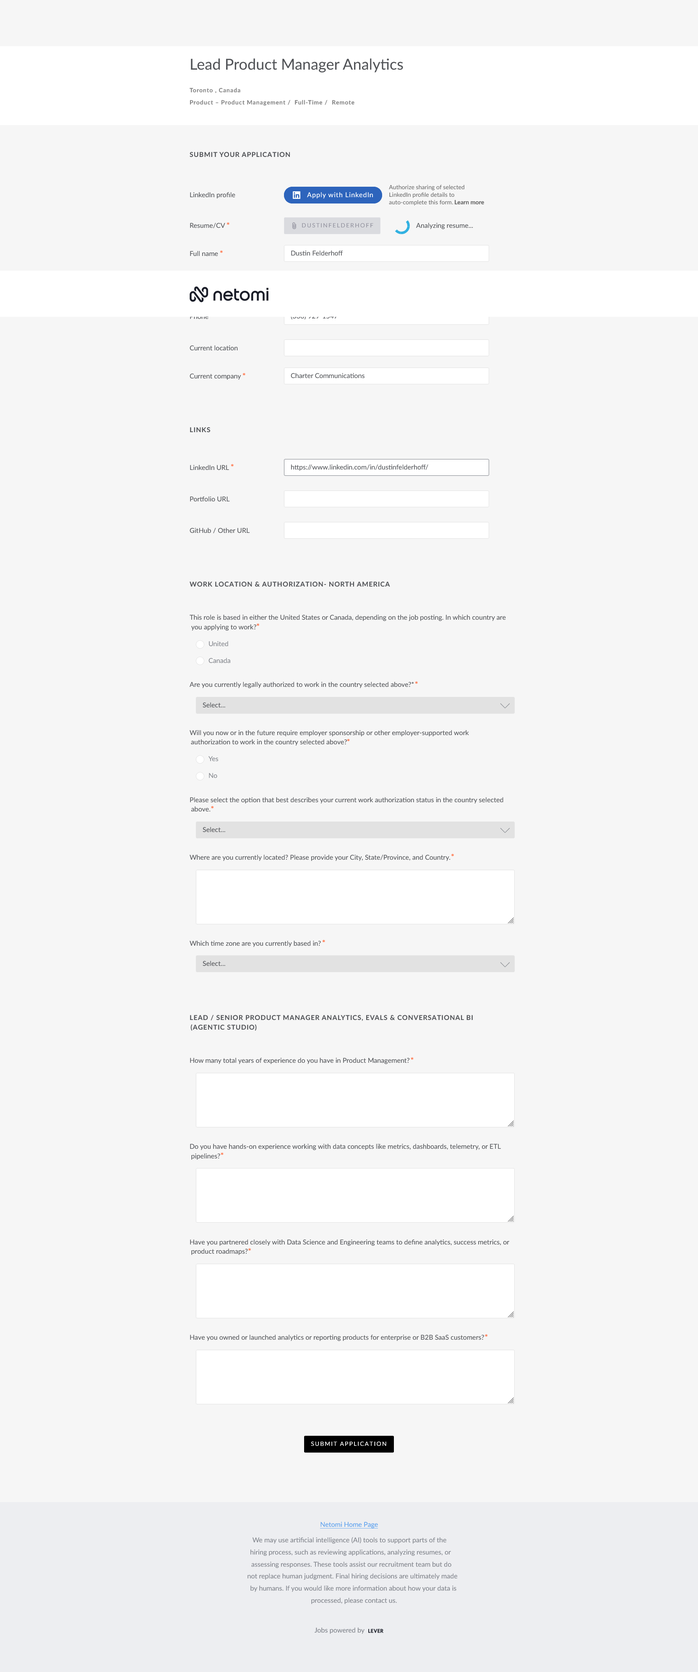
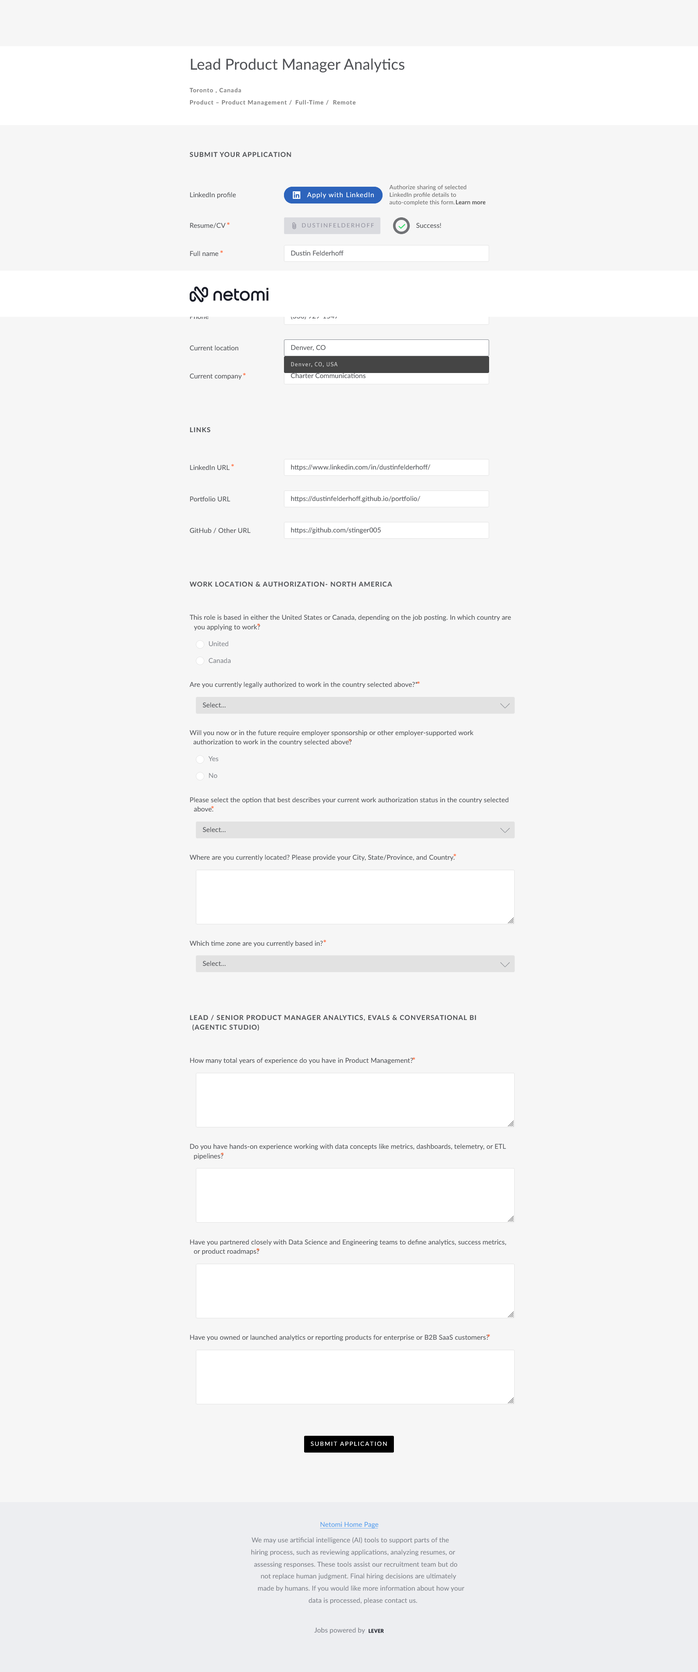
update dashboard

diff --git a/apply/job-dashboard.html b/apply/job-dashboard.html
@@ -68,11 +68,11 @@ a:hover{text-decoration:underline}
 <div id="dashboard" style="display:none">
 <header>
   <h1>Job-Application Monitor</h1>
-  <div class="sub">Auto-apply pipeline · generated 2026-09-01 11:30  · data: jobs.db + analytics.db + filled-form captures</div>
+  <div class="sub">Auto-apply pipeline · generated 2026-09-01 12:00  · data: jobs.db + analytics.db + filled-form captures</div>
 </header>
 <div class="wrap">
   <section class="card"><h2>Summary</h2><div class="grid"><div class="metric"><div class="label">Applied</div><div class="value">22</div></div><div class="metric"><div class="label">Interviews</div><div class="value">4</div></div><div class="metric"><div class="label">Interview requested</div><div class="value">0</div></div><div class="metric"><div class="label">Interview rate</div><div class="value">18.2%</div></div><div class="metric"><div class="label">Velocity</div><div class="value">2.8 apps/wk</div></div><div class="metric"><div class="label">Ready to apply</div><div class="value">231</div></div><div class="metric"><div class="label">Fillable (ATS)</div><div class="value">148</div></div><div class="metric"><div class="label">Has questions</div><div class="value">30</div></div></div></section>
-  <section class="card"><h2>Daily pipeline activity — last 14 days</h2><svg viewBox="0 0 920 300" role="img" aria-label="Daily pipeline activity, last 14 days" style="width:100%;height:auto;font:11px system-ui,sans-serif"><line x1="44" y1="258.0" x2="908" y2="258.0" stroke="#e2e8f0" stroke-width="1"/><text x="38" y="258.0" fill="#64748b" text-anchor="end" dominant-baseline="middle">0</text><line x1="44" y1="210.0" x2="908" y2="210.0" stroke="#e2e8f0" stroke-width="1"/><text x="38" y="210.0" fill="#64748b" text-anchor="end" dominant-baseline="middle">121</text><line x1="44" y1="162.0" x2="908" y2="162.0" stroke="#e2e8f0" stroke-width="1"/><text x="38" y="162.0" fill="#64748b" text-anchor="end" dominant-baseline="middle">243</text><line x1="44" y1="114.0" x2="908" y2="114.0" stroke="#e2e8f0" stroke-width="1"/><text x="38" y="114.0" fill="#64748b" text-anchor="end" dominant-baseline="middle">365</text><line x1="44" y1="66.0" x2="908" y2="66.0" stroke="#e2e8f0" stroke-width="1"/><text x="38" y="66.0" fill="#64748b" text-anchor="end" dominant-baseline="middle">487</text><line x1="44" y1="18.0" x2="908" y2="18.0" stroke="#e2e8f0" stroke-width="1"/><text x="38" y="18.0" fill="#64748b" text-anchor="end" dominant-baseline="middle">609</text><rect x="50.2" y="258.0" width="12.3" height="0.0" fill="#2563eb" rx="1.5"><title>2026-08-19: 0</title></rect><rect x="62.5" y="258.0" width="12.3" height="0.0" fill="#7c3aed" rx="1.5"><title>2026-08-19: 0</title></rect><rect x="74.9" y="258.0" width="12.3" height="0.0" fill="#059669" rx="1.5"><title>2026-08-19: 0</title></rect><rect x="87.2" y="258.0" width="12.3" height="0.0" fill="#d97706" rx="1.5"><title>2026-08-19: 0</title></rect><text x="81.0" y="280" fill="#475569" text-anchor="middle">08-19</text><rect x="111.9" y="258.0" width="12.3" height="0.0" fill="#2563eb" rx="1.5"><title>2026-08-20: 0</title></rect><rect x="124.2" y="258.0" width="12.3" height="0.0" fill="#7c3aed" rx="1.5"><title>2026-08-20: 0</title></rect><rect x="136.6" y="258.0" width="12.3" height="0.0" fill="#059669" rx="1.5"><title>2026-08-20: 0</title></rect><rect x="148.9" y="258.0" width="12.3" height="0.0" fill="#d97706" rx="1.5"><title>2026-08-20: 0</title></rect><rect x="173.6" y="258.0" width="12.3" height="0.0" fill="#2563eb" rx="1.5"><title>2026-08-21: 0</title></rect><rect x="185.9" y="258.0" width="12.3" height="0.0" fill="#7c3aed" rx="1.5"><title>2026-08-21: 0</title></rect><rect x="198.3" y="258.0" width="12.3" height="0.0" fill="#059669" rx="1.5"><title>2026-08-21: 0</title></rect><rect x="210.6" y="258.0" width="12.3" height="0.0" fill="#d97706" rx="1.5"><title>2026-08-21: 0</title></rect><text x="204.5" y="280" fill="#475569" text-anchor="middle">08-21</text><rect x="235.3" y="258.0" width="12.3" height="0.0" fill="#2563eb" rx="1.5"><title>2026-08-22: 0</title></rect><rect x="247.7" y="258.0" width="12.3" height="0.0" fill="#7c3aed" rx="1.5"><title>2026-08-22: 0</title></rect><rect x="260.0" y="258.0" width="12.3" height="0.0" fill="#059669" rx="1.5"><title>2026-08-22: 0</title></rect><rect x="272.3" y="258.0" width="12.3" height="0.0" fill="#d97706" rx="1.5"><title>2026-08-22: 0</title></rect><rect x="297.0" y="258.0" width="12.3" height="0.0" fill="#2563eb" rx="1.5"><title>2026-08-23: 0</title></rect><rect x="309.4" y="258.0" width="12.3" height="0.0" fill="#7c3aed" rx="1.5"><title>2026-08-23: 0</title></rect><rect x="321.7" y="258.0" width="12.3" height="0.0" fill="#059669" rx="1.5"><title>2026-08-23: 0</title></rect><rect x="334.1" y="258.0" width="12.3" height="0.0" fill="#d97706" rx="1.5"><title>2026-08-23: 0</title></rect><text x="327.9" y="280" fill="#475569" text-anchor="middle">08-23</text><rect x="358.7" y="258.0" width="12.3" height="0.0" fill="#2563eb" rx="1.5"><title>2026-08-24: 0</title></rect><rect x="371.1" y="258.0" width="12.3" height="0.0" fill="#7c3aed" rx="1.5"><title>2026-08-24: 0</title></rect><rect x="383.4" y="258.0" width="12.3" height="0.0" fill="#059669" rx="1.5"><title>2026-08-24: 0</title></rect><rect x="395.8" y="258.0" width="12.3" height="0.0" fill="#d97706" rx="1.5"><title>2026-08-24: 0</title></rect><rect x="420.5" y="258.0" width="12.3" height="0.0" fill="#2563eb" rx="1.5"><title>2026-08-25: 0</title></rect><rect x="432.8" y="258.0" width="12.3" height="0.0" fill="#7c3aed" rx="1.5"><title>2026-08-25: 0</title></rect><rect x="445.1" y="258.0" width="12.3" height="0.0" fill="#059669" rx="1.5"><title>2026-08-25: 0</title></rect><rect x="457.5" y="258.0" width="12.3" height="0.0" fill="#d97706" rx="1.5"><title>2026-08-25: 0</title></rect><text x="451.3" y="280" fill="#475569" text-anchor="middle">08-25</text><rect x="482.2" y="258.0" width="12.3" height="0.0" fill="#2563eb" rx="1.5"><title>2026-08-26: 0</title></rect><rect x="494.5" y="258.0" width="12.3" height="0.0" fill="#7c3aed" rx="1.5"><title>2026-08-26: 0</title></rect><rect x="506.9" y="258.0" width="12.3" height="0.0" fill="#059669" rx="1.5"><title>2026-08-26: 0</title></rect><rect x="519.2" y="258.0" width="12.3" height="0.0" fill="#d97706" rx="1.5"><title>2026-08-26: 0</title></rect><rect x="543.9" y="169.7" width="12.3" height="88.3" fill="#2563eb" rx="1.5"><title>2026-08-27: 224</title></rect><rect x="556.2" y="256.0" width="12.3" height="2.0" fill="#7c3aed" rx="1.5"><title>2026-08-27: 5</title></rect><rect x="568.6" y="258.0" width="12.3" height="0.0" fill="#059669" rx="1.5"><title>2026-08-27: 0</title></rect><rect x="580.9" y="258.0" width="12.3" height="0.0" fill="#d97706" rx="1.5"><title>2026-08-27: 0</title></rect><text x="574.7" y="280" fill="#475569" text-anchor="middle">08-27</text><rect x="605.6" y="18.0" width="12.3" height="240.0" fill="#2563eb" rx="1.5"><title>2026-08-28: 609</title></rect><rect x="617.9" y="253.3" width="12.3" height="4.7" fill="#7c3aed" rx="1.5"><title>2026-08-28: 12</title></rect><rect x="630.3" y="254.1" width="12.3" height="3.9" fill="#059669" rx="1.5"><title>2026-08-28: 10</title></rect><rect x="642.6" y="258.0" width="12.3" height="0.0" fill="#d97706" rx="1.5"><title>2026-08-28: 0</title></rect><rect x="667.3" y="258.0" width="12.3" height="0.0" fill="#2563eb" rx="1.5"><title>2026-08-29: 0</title></rect><rect x="679.7" y="256.0" width="12.3" height="2.0" fill="#7c3aed" rx="1.5"><title>2026-08-29: 5</title></rect><rect x="692.0" y="256.0" width="12.3" height="2.0" fill="#059669" rx="1.5"><title>2026-08-29: 5</title></rect><rect x="704.3" y="258.0" width="12.3" height="0.0" fill="#d97706" rx="1.5"><title>2026-08-29: 0</title></rect><text x="698.2" y="280" fill="#475569" text-anchor="middle">08-29</text><rect x="729.0" y="258.0" width="12.3" height="0.0" fill="#2563eb" rx="1.5"><title>2026-08-30: 0</title></rect><rect x="741.4" y="250.5" width="12.3" height="7.5" fill="#7c3aed" rx="1.5"><title>2026-08-30: 19</title></rect><rect x="753.7" y="251.7" width="12.3" height="6.3" fill="#059669" rx="1.5"><title>2026-08-30: 16</title></rect><rect x="766.1" y="258.0" width="12.3" height="0.0" fill="#d97706" rx="1.5"><title>2026-08-30: 0</title></rect><rect x="790.7" y="227.7" width="12.3" height="30.3" fill="#2563eb" rx="1.5"><title>2026-08-31: 77</title></rect><rect x="803.1" y="221.3" width="12.3" height="36.7" fill="#7c3aed" rx="1.5"><title>2026-08-31: 93</title></rect><rect x="815.4" y="242.6" width="12.3" height="15.4" fill="#059669" rx="1.5"><title>2026-08-31: 39</title></rect><rect x="827.8" y="258.0" width="12.3" height="0.0" fill="#d97706" rx="1.5"><title>2026-08-31: 0</title></rect><text x="821.6" y="280" fill="#475569" text-anchor="middle">08-31</text><rect x="852.5" y="256.4" width="12.3" height="1.6" fill="#2563eb" rx="1.5"><title>2026-09-01: 4</title></rect><rect x="864.8" y="243.8" width="12.3" height="14.2" fill="#7c3aed" rx="1.5"><title>2026-09-01: 36</title></rect><rect x="877.1" y="248.9" width="12.3" height="9.1" fill="#059669" rx="1.5"><title>2026-09-01: 23</title></rect><rect x="889.5" y="258.0" width="12.3" height="0.0" fill="#d97706" rx="1.5"><title>2026-09-01: 0</title></rect><text x="883.3" y="280" fill="#475569" text-anchor="middle">09-01</text><rect x="44" y="8" width="10" height="10" fill="#2563eb" rx="2"/><text x="58" y="16" fill="#0f172a">Found</text><rect x="109" y="8" width="10" height="10" fill="#7c3aed" rx="2"/><text x="123" y="16" fill="#0f172a">Attempted</text><rect x="202" y="8" width="10" height="10" fill="#059669" rx="2"/><text x="216" y="16" fill="#0f172a">Filled</text><rect x="274" y="8" width="10" height="10" fill="#d97706" rx="2"/><text x="288" y="16" fill="#0f172a">Submitted</text></svg></section>
+  <section class="card"><h2>Daily pipeline activity — last 14 days</h2><svg viewBox="0 0 920 300" role="img" aria-label="Daily pipeline activity, last 14 days" style="width:100%;height:auto;font:11px system-ui,sans-serif"><line x1="44" y1="258.0" x2="908" y2="258.0" stroke="#e2e8f0" stroke-width="1"/><text x="38" y="258.0" fill="#64748b" text-anchor="end" dominant-baseline="middle">0</text><line x1="44" y1="210.0" x2="908" y2="210.0" stroke="#e2e8f0" stroke-width="1"/><text x="38" y="210.0" fill="#64748b" text-anchor="end" dominant-baseline="middle">121</text><line x1="44" y1="162.0" x2="908" y2="162.0" stroke="#e2e8f0" stroke-width="1"/><text x="38" y="162.0" fill="#64748b" text-anchor="end" dominant-baseline="middle">243</text><line x1="44" y1="114.0" x2="908" y2="114.0" stroke="#e2e8f0" stroke-width="1"/><text x="38" y="114.0" fill="#64748b" text-anchor="end" dominant-baseline="middle">365</text><line x1="44" y1="66.0" x2="908" y2="66.0" stroke="#e2e8f0" stroke-width="1"/><text x="38" y="66.0" fill="#64748b" text-anchor="end" dominant-baseline="middle">487</text><line x1="44" y1="18.0" x2="908" y2="18.0" stroke="#e2e8f0" stroke-width="1"/><text x="38" y="18.0" fill="#64748b" text-anchor="end" dominant-baseline="middle">609</text><rect x="50.2" y="258.0" width="12.3" height="0.0" fill="#2563eb" rx="1.5"><title>2026-08-19: 0</title></rect><rect x="62.5" y="258.0" width="12.3" height="0.0" fill="#7c3aed" rx="1.5"><title>2026-08-19: 0</title></rect><rect x="74.9" y="258.0" width="12.3" height="0.0" fill="#059669" rx="1.5"><title>2026-08-19: 0</title></rect><rect x="87.2" y="258.0" width="12.3" height="0.0" fill="#d97706" rx="1.5"><title>2026-08-19: 0</title></rect><text x="81.0" y="280" fill="#475569" text-anchor="middle">08-19</text><rect x="111.9" y="258.0" width="12.3" height="0.0" fill="#2563eb" rx="1.5"><title>2026-08-20: 0</title></rect><rect x="124.2" y="258.0" width="12.3" height="0.0" fill="#7c3aed" rx="1.5"><title>2026-08-20: 0</title></rect><rect x="136.6" y="258.0" width="12.3" height="0.0" fill="#059669" rx="1.5"><title>2026-08-20: 0</title></rect><rect x="148.9" y="258.0" width="12.3" height="0.0" fill="#d97706" rx="1.5"><title>2026-08-20: 0</title></rect><rect x="173.6" y="258.0" width="12.3" height="0.0" fill="#2563eb" rx="1.5"><title>2026-08-21: 0</title></rect><rect x="185.9" y="258.0" width="12.3" height="0.0" fill="#7c3aed" rx="1.5"><title>2026-08-21: 0</title></rect><rect x="198.3" y="258.0" width="12.3" height="0.0" fill="#059669" rx="1.5"><title>2026-08-21: 0</title></rect><rect x="210.6" y="258.0" width="12.3" height="0.0" fill="#d97706" rx="1.5"><title>2026-08-21: 0</title></rect><text x="204.5" y="280" fill="#475569" text-anchor="middle">08-21</text><rect x="235.3" y="258.0" width="12.3" height="0.0" fill="#2563eb" rx="1.5"><title>2026-08-22: 0</title></rect><rect x="247.7" y="258.0" width="12.3" height="0.0" fill="#7c3aed" rx="1.5"><title>2026-08-22: 0</title></rect><rect x="260.0" y="258.0" width="12.3" height="0.0" fill="#059669" rx="1.5"><title>2026-08-22: 0</title></rect><rect x="272.3" y="258.0" width="12.3" height="0.0" fill="#d97706" rx="1.5"><title>2026-08-22: 0</title></rect><rect x="297.0" y="258.0" width="12.3" height="0.0" fill="#2563eb" rx="1.5"><title>2026-08-23: 0</title></rect><rect x="309.4" y="258.0" width="12.3" height="0.0" fill="#7c3aed" rx="1.5"><title>2026-08-23: 0</title></rect><rect x="321.7" y="258.0" width="12.3" height="0.0" fill="#059669" rx="1.5"><title>2026-08-23: 0</title></rect><rect x="334.1" y="258.0" width="12.3" height="0.0" fill="#d97706" rx="1.5"><title>2026-08-23: 0</title></rect><text x="327.9" y="280" fill="#475569" text-anchor="middle">08-23</text><rect x="358.7" y="258.0" width="12.3" height="0.0" fill="#2563eb" rx="1.5"><title>2026-08-24: 0</title></rect><rect x="371.1" y="258.0" width="12.3" height="0.0" fill="#7c3aed" rx="1.5"><title>2026-08-24: 0</title></rect><rect x="383.4" y="258.0" width="12.3" height="0.0" fill="#059669" rx="1.5"><title>2026-08-24: 0</title></rect><rect x="395.8" y="258.0" width="12.3" height="0.0" fill="#d97706" rx="1.5"><title>2026-08-24: 0</title></rect><rect x="420.5" y="258.0" width="12.3" height="0.0" fill="#2563eb" rx="1.5"><title>2026-08-25: 0</title></rect><rect x="432.8" y="258.0" width="12.3" height="0.0" fill="#7c3aed" rx="1.5"><title>2026-08-25: 0</title></rect><rect x="445.1" y="258.0" width="12.3" height="0.0" fill="#059669" rx="1.5"><title>2026-08-25: 0</title></rect><rect x="457.5" y="258.0" width="12.3" height="0.0" fill="#d97706" rx="1.5"><title>2026-08-25: 0</title></rect><text x="451.3" y="280" fill="#475569" text-anchor="middle">08-25</text><rect x="482.2" y="258.0" width="12.3" height="0.0" fill="#2563eb" rx="1.5"><title>2026-08-26: 0</title></rect><rect x="494.5" y="258.0" width="12.3" height="0.0" fill="#7c3aed" rx="1.5"><title>2026-08-26: 0</title></rect><rect x="506.9" y="258.0" width="12.3" height="0.0" fill="#059669" rx="1.5"><title>2026-08-26: 0</title></rect><rect x="519.2" y="258.0" width="12.3" height="0.0" fill="#d97706" rx="1.5"><title>2026-08-26: 0</title></rect><rect x="543.9" y="169.7" width="12.3" height="88.3" fill="#2563eb" rx="1.5"><title>2026-08-27: 224</title></rect><rect x="556.2" y="256.0" width="12.3" height="2.0" fill="#7c3aed" rx="1.5"><title>2026-08-27: 5</title></rect><rect x="568.6" y="258.0" width="12.3" height="0.0" fill="#059669" rx="1.5"><title>2026-08-27: 0</title></rect><rect x="580.9" y="258.0" width="12.3" height="0.0" fill="#d97706" rx="1.5"><title>2026-08-27: 0</title></rect><text x="574.7" y="280" fill="#475569" text-anchor="middle">08-27</text><rect x="605.6" y="18.0" width="12.3" height="240.0" fill="#2563eb" rx="1.5"><title>2026-08-28: 609</title></rect><rect x="617.9" y="253.3" width="12.3" height="4.7" fill="#7c3aed" rx="1.5"><title>2026-08-28: 12</title></rect><rect x="630.3" y="254.1" width="12.3" height="3.9" fill="#059669" rx="1.5"><title>2026-08-28: 10</title></rect><rect x="642.6" y="258.0" width="12.3" height="0.0" fill="#d97706" rx="1.5"><title>2026-08-28: 0</title></rect><rect x="667.3" y="258.0" width="12.3" height="0.0" fill="#2563eb" rx="1.5"><title>2026-08-29: 0</title></rect><rect x="679.7" y="256.0" width="12.3" height="2.0" fill="#7c3aed" rx="1.5"><title>2026-08-29: 5</title></rect><rect x="692.0" y="256.0" width="12.3" height="2.0" fill="#059669" rx="1.5"><title>2026-08-29: 5</title></rect><rect x="704.3" y="258.0" width="12.3" height="0.0" fill="#d97706" rx="1.5"><title>2026-08-29: 0</title></rect><text x="698.2" y="280" fill="#475569" text-anchor="middle">08-29</text><rect x="729.0" y="258.0" width="12.3" height="0.0" fill="#2563eb" rx="1.5"><title>2026-08-30: 0</title></rect><rect x="741.4" y="250.5" width="12.3" height="7.5" fill="#7c3aed" rx="1.5"><title>2026-08-30: 19</title></rect><rect x="753.7" y="251.7" width="12.3" height="6.3" fill="#059669" rx="1.5"><title>2026-08-30: 16</title></rect><rect x="766.1" y="258.0" width="12.3" height="0.0" fill="#d97706" rx="1.5"><title>2026-08-30: 0</title></rect><rect x="790.7" y="227.7" width="12.3" height="30.3" fill="#2563eb" rx="1.5"><title>2026-08-31: 77</title></rect><rect x="803.1" y="221.3" width="12.3" height="36.7" fill="#7c3aed" rx="1.5"><title>2026-08-31: 93</title></rect><rect x="815.4" y="242.6" width="12.3" height="15.4" fill="#059669" rx="1.5"><title>2026-08-31: 39</title></rect><rect x="827.8" y="258.0" width="12.3" height="0.0" fill="#d97706" rx="1.5"><title>2026-08-31: 0</title></rect><text x="821.6" y="280" fill="#475569" text-anchor="middle">08-31</text><rect x="852.5" y="256.4" width="12.3" height="1.6" fill="#2563eb" rx="1.5"><title>2026-09-01: 4</title></rect><rect x="864.8" y="243.0" width="12.3" height="15.0" fill="#7c3aed" rx="1.5"><title>2026-09-01: 38</title></rect><rect x="877.1" y="248.1" width="12.3" height="9.9" fill="#059669" rx="1.5"><title>2026-09-01: 25</title></rect><rect x="889.5" y="258.0" width="12.3" height="0.0" fill="#d97706" rx="1.5"><title>2026-09-01: 0</title></rect><text x="883.3" y="280" fill="#475569" text-anchor="middle">09-01</text><rect x="44" y="8" width="10" height="10" fill="#2563eb" rx="2"/><text x="58" y="16" fill="#0f172a">Found</text><rect x="109" y="8" width="10" height="10" fill="#7c3aed" rx="2"/><text x="123" y="16" fill="#0f172a">Attempted</text><rect x="202" y="8" width="10" height="10" fill="#059669" rx="2"/><text x="216" y="16" fill="#0f172a">Filled</text><rect x="274" y="8" width="10" height="10" fill="#d97706" rx="2"/><text x="288" y="16" fill="#0f172a">Submitted</text></svg></section>
   <section class="card">
     <h2>Job postings</h2>
     <p class='note'>Discovery visibility (0-100) = source weight (0-70) + recency (0-20) + liveness (0-10). Source weight reflects how proactively/directly findable the job was via its discovery route (a company's own career-site/ATS scan = high; shared/manual intake = lower because it relies on someone else surfacing it). Jobs whose original discovery route is unknown (e.g. recovered from a rebuild) show '—'. Recruiter findability (0-100) = reviewability state(0-40) + fit(0-25) + completion(0-25) + proof(0-10); jobs never attempted show '—'. 0-100) = required-weighted filled/visible fields from each capture's audit (required fields weigh ~2x optional; hidden/captcha fields excluded). Accuracy-to-resume (0-100) = how well filled identity fields match Dustin's resume + answers ground truth; only fields with a known true value are scored (essay/answer fields never penalized); empty on a known field is a partial. AI-detection (0-100) = how human vs AI the free-form written answers read (higher = more human); a deterministic heuristic flags em/en dashes, banned AI words, missing contractions, uniform sentence rhythm, hedging, and '-ing' padding; requires free-form prose, else honest N/A. Every score is honest N/A when the underlying data does not exist. Fit = jobs.fit_score.</p>
@@ -85,7 +85,7 @@ a:hover{text-decoration:underline}
     </tr></thead>
     <tbody><tr><td class='company'>Contentsquare</td><td>Contentsquare - Senior Product Manager, User &amp; Lifecycle Analytics</td><td>2026-08-28</td><td class='src'>Tavily search</td><td class='num'>75</td><td><span class='badge badge-gray'>questions_extracted</span></td><td><span class='badge badge-gray'>No</span></td><td class='num'>78</td><td class='num'>80</td><td>2026-08-28</td><td class='proof'><a class="proof-online" href="proof/job2032.png" target="_blank" rel="noopener">View proof (online)</a><br><small class="muted">PNG committed online; PDF + audit local</small><br><small class="muted">captured 2026-09-01 02:38</small></td><td class='num'><span style="color:#d97706;font-weight:600" title="13/19 fields filled (9.0 required-weighted pts / 13.0 possible)">69</span></td><td class='num'><span style="color:#059669;font-weight:600" title="8 identity field(s) assessed, 7 matched, 7.5 pts/8.0 · email:match; phone:match; location:match; linkedin:match; portfolio:empty(0.5); portfolio:match; portfolio:match; location:match">94</span></td><td class='num'><span style="color:#059669;font-weight:600" title="109 chars of free-form answer text assessed">100</span></td><td class='num'>80</td></tr>
 <tr><td class='company'>Twilio</td><td>Staff Product Manager</td><td>2026-08-27</td><td class='src'>ATS 2h scan · job_source_ats_2h</td><td class='num'>100</td><td><span class='badge badge-gray'>questions_extracted</span></td><td><span class='badge badge-gray'>No</span></td><td class='num'>63</td><td class='num'>92</td><td>2026-08-26</td><td class='proof'><span class="na">—</span></td><td class='num'><span class="na" title="no data">N/A</span></td><td class='num'><span class="na" title="no data">N/A</span></td><td class='num'><span class="na" title="no data">N/A</span></td><td class='num'>92</td></tr>
-<tr><td class='company'>Maven Clinic</td><td>VP of Product, Healthcare</td><td>2026-08-27</td><td class='src'>Daily scan · job_source_daily_scan</td><td class='num'>95</td><td><span class='badge badge-gray'>questions_extracted</span></td><td><span class='badge badge-gray'>No</span></td><td class='num'>79</td><td class='num'>74</td><td>2026-06-18</td><td class='proof'><a class="proof-online" href="proof/job1989.png" target="_blank" rel="noopener">View proof (online)</a><br><small class="muted">PNG committed online; PDF + audit local</small><br><small class="muted">captured 2026-09-01 08:49</small></td><td class='num'><span style="color:#d97706;font-weight:600" title="9/14 fields filled (9.0 required-weighted pts / 14.0 possible)">64</span></td><td class='num'><span style="color:#059669;font-weight:600" title="8 identity field(s) assessed, 8 matched, 8.0 pts/8.0 · first_name:match; last_name:match; email:match; phone:match; location:match; location:match; linkedin:match; location:match">100</span></td><td class='num'><span class="na" title="no free-form written answer captured/assessed">N/A</span></td><td class='num'>74</td></tr>
+<tr><td class='company'>Maven Clinic</td><td>VP of Product, Healthcare</td><td>2026-08-27</td><td class='src'>Daily scan · job_source_daily_scan</td><td class='num'>95</td><td><span class='badge badge-gray'>questions_extracted</span></td><td><span class='badge badge-gray'>No</span></td><td class='num'>79</td><td class='num'>74</td><td>2026-06-18</td><td class='proof'><a class="proof-online" href="proof/job1989.png" target="_blank" rel="noopener">View proof (online)</a><br><small class="muted">PNG committed online; PDF + audit local</small><br><small class="muted">captured 2026-09-01 11:39</small></td><td class='num'><span style="color:#d97706;font-weight:600" title="9/14 fields filled (9.0 required-weighted pts / 14.0 possible)">64</span></td><td class='num'><span style="color:#059669;font-weight:600" title="8 identity field(s) assessed, 8 matched, 8.0 pts/8.0 · first_name:match; last_name:match; email:match; phone:match; location:match; location:match; linkedin:match; location:match">100</span></td><td class='num'><span class="na" title="no free-form written answer captured/assessed">N/A</span></td><td class='num'>74</td></tr>
 <tr><td class='company'>Maven Clinic</td><td>Senior Staff Product Manager, Member &amp; AI Experience</td><td>2026-08-27</td><td class='src'>Daily scan · job_source_daily_scan</td><td class='num'>95</td><td><span class='badge badge-gray'>questions_extracted</span></td><td><span class='badge badge-gray'>No</span></td><td class='num'>78</td><td class='num'>73</td><td>2026-06-18</td><td class='proof'><a class="proof-online" href="proof/job1982.png" target="_blank" rel="noopener">View proof (online)</a><br><small class="muted">PNG committed online; PDF + audit local</small><br><small class="muted">captured 2026-09-01 00:37</small></td><td class='num'><span style="color:#d97706;font-weight:600" title="9/14 fields filled (9.0 required-weighted pts / 14.0 possible)">64</span></td><td class='num'><span style="color:#059669;font-weight:600" title="8 identity field(s) assessed, 8 matched, 8.0 pts/8.0 · first_name:match; last_name:match; email:match; phone:match; location:match; location:match; linkedin:match; location:match">100</span></td><td class='num'><span class="na" title="no free-form written answer captured/assessed">N/A</span></td><td class='num'>73</td></tr>
 <tr><td class='company'>Maven Clinic</td><td>Senior Staff Product Manager, Fertility &amp; Family Building</td><td>2026-08-27</td><td class='src'>Daily scan · job_source_daily_scan</td><td class='num'>95</td><td><span class='badge badge-gray'>questions_extracted</span></td><td><span class='badge badge-gray'>No</span></td><td class='num'>56</td><td class='num'>73</td><td>2026-06-18</td><td class='proof'><a class="proof-online" href="proof/job1981.png" target="_blank" rel="noopener">View proof (online)</a><br><small class="muted">PNG committed online; PDF + audit local</small><br><small class="muted">captured 2026-08-31 03:04</small></td><td class='num'><span style="color:#dc2626;font-weight:600" title="5/14 fields filled (5.0 required-weighted pts / 14.0 possible)">36</span></td><td class='num'><span style="color:#d97706;font-weight:600" title="7 identity field(s) assessed, 5 matched, 6.0 pts/7.0 · first_name:match; last_name:match; email:match; phone:match; location:match; linkedin:empty(0.5); location:empty(0.5)">86</span></td><td class='num'><span class="na" title="no free-form written answer captured/assessed">N/A</span></td><td class='num'>73</td></tr>
 <tr><td class='company'>Maven Clinic</td><td>Group Product Manager, Client Services</td><td>2026-08-27</td><td class='src'>Daily scan · job_source_daily_scan</td><td class='num'>95</td><td><span class='badge badge-gray'>questions_extracted</span></td><td><span class='badge badge-gray'>No</span></td><td class='num'>58</td><td class='num'>71</td><td>2026-06-18</td><td class='proof'><span class="na">—</span></td><td class='num'><span class="na" title="no data">N/A</span></td><td class='num'><span class="na" title="no data">N/A</span></td><td class='num'><span class="na" title="no data">N/A</span></td><td class='num'>71</td></tr>
@@ -123,7 +123,7 @@ a:hover{text-decoration:underline}
 <tr><td class='company'>Future</td><td>Job Application for Staff Product Manager at Future</td><td>2026-08-27</td><td class='src'>Tavily search</td><td class='num'>65</td><td><span class='badge badge-red'>closed</span></td><td><span class='badge badge-gray'>No</span></td><td class='num'>40</td><td class='num'>80</td><td>2026-08-27</td><td class='proof'><span class="na">—</span></td><td class='num'><span class="na" title="no data">N/A</span></td><td class='num'><span class="na" title="no data">N/A</span></td><td class='num'><span class="na" title="no data">N/A</span></td><td class='num'>80</td></tr>
 <tr><td class='company'>Extend</td><td>Job Application for Product Manager II at Extend</td><td>2026-08-27</td><td class='src'>Tavily search</td><td class='num'>75</td><td><span class='badge badge-gray'>questions_extracted</span></td><td><span class='badge badge-gray'>No</span></td><td class='num'>60</td><td class='num'>80</td><td>2026-08-27</td><td class='proof'><span class="na">—</span></td><td class='num'><span class="na" title="no data">N/A</span></td><td class='num'><span class="na" title="no data">N/A</span></td><td class='num'><span class="na" title="no data">N/A</span></td><td class='num'>80</td></tr>
 <tr><td class='company'>Sourcegraph</td><td>Sollicitatie voor Product Manager [IC4] bij Sourcegraph</td><td>2026-08-27</td><td class='src'>Tavily search</td><td class='num'>75</td><td><span class='badge badge-gray'>questions_extracted</span></td><td><span class='badge badge-gray'>No</span></td><td class='num'>54</td><td class='num'>80</td><td>2026-08-27</td><td class='proof'><a class="proof-online" href="proof/job1998.png" target="_blank" rel="noopener">View proof (online)</a><br><small class="muted">PNG committed online; PDF + audit local</small><br><small class="muted">captured 2026-08-31 10:34</small></td><td class='num'><span style="color:#dc2626;font-weight:600" title="5/28 fields filled (5.0 required-weighted pts / 28.0 possible)">18</span></td><td class='num'><span style="color:#d97706;font-weight:600" title="10 identity field(s) assessed, 5 matched, 7.5 pts/10.0 · first_name:match; last_name:match; email:match; phone:match; location:match; linkedin:empty(0.5); location:empty(0.5); location:empty(0.5)">75</span></td><td class='num'><span class="na" title="no free-form written answer captured/assessed">N/A</span></td><td class='num'>80</td></tr>
-<tr><td class='company'>Netomi</td><td>Netomi - Lead / Senior Product Manager Analytics</td><td>2026-08-27</td><td class='src'>Tavily search</td><td class='num'>75</td><td><span class='badge badge-gray'>questions_extracted</span></td><td><span class='badge badge-gray'>No</span></td><td class='num'>79</td><td class='num'>80</td><td>2026-08-27</td><td class='proof'><a class="proof-online" href="proof/job1515.png" target="_blank" rel="noopener">View proof (online)</a><br><small class="muted">PNG committed online; PDF + audit local</small><br><small class="muted">captured 2026-08-31 11:26</small></td><td class='num'><span style="color:#dc2626;font-weight:600" title="5/20 fields filled (5.0 required-weighted pts / 18.5 possible)">27</span></td><td class='num'><span style="color:#d97706;font-weight:600" title="7 identity field(s) assessed, 3 matched, 5.0 pts/7.0 · email:match; phone:match; location:empty(0.5); linkedin:match; portfolio:empty(0.5); location:empty(0.5); phone:empty(0.5)">71</span></td><td class='num'><span class="na" title="no free-form written answer captured/assessed">N/A</span></td><td class='num'>80</td></tr>
+<tr><td class='company'>Netomi</td><td>Netomi - Lead / Senior Product Manager Analytics</td><td>2026-08-27</td><td class='src'>Tavily search</td><td class='num'>75</td><td><span class='badge badge-gray'>questions_extracted</span></td><td><span class='badge badge-gray'>No</span></td><td class='num'>82</td><td class='num'>80</td><td>2026-08-27</td><td class='proof'><a class="proof-online" href="proof/job1515.png" target="_blank" rel="noopener">View proof (online)</a><br><small class="muted">PNG committed online; PDF + audit local</small><br><small class="muted">captured 2026-09-01 11:45</small></td><td class='num'><span style="color:#dc2626;font-weight:600" title="8/20 fields filled (6.5 required-weighted pts / 18.5 possible)">35</span></td><td class='num'><span style="color:#d97706;font-weight:600" title="7 identity field(s) assessed, 5 matched, 6.0 pts/7.0 · email:match; phone:match; location:match; linkedin:match; portfolio:match; location:empty(0.5); phone:empty(0.5)">86</span></td><td class='num'><span class="na" title="no free-form written answer captured/assessed">N/A</span></td><td class='num'>80</td></tr>
 <tr><td class='company'>Ibotta</td><td>Senior Product Manager, Product Data</td><td>2026-08-27</td><td class='src'>Tavily search</td><td class='num'>75</td><td><span class='badge badge-gray'>questions_extracted</span></td><td><span class='badge badge-gray'>No</span></td><td class='num'>72</td><td class='num'>80</td><td>2026-08-26</td><td class='proof'><a class="proof-online" href="proof/job1501.png" target="_blank" rel="noopener">View proof (online)</a><br><small class="muted">PNG committed online; PDF + audit local</small><br><small class="muted">captured 2026-09-01 07:58</small></td><td class='num'><span style="color:#dc2626;font-weight:600" title="2/29 fields filled (2.0 required-weighted pts / 16.5 possible)">12</span></td><td class='num'><span style="color:#d97706;font-weight:600" title="2 identity field(s) assessed, 1 matched, 1.5 pts/2.0 · email:match; phone:empty(0.5)">75</span></td><td class='num'><span class="na" title="no free-form written answer captured/assessed">N/A</span></td><td class='num'>80</td></tr>
 <tr><td class='company'>Klaviyo</td><td>Senior Lead Product Manager, Enterprise - Klaviyo</td><td>2026-07-17</td><td class='src'>Tavily search</td><td class='num'>52</td><td><span class='badge badge-red'>closed</span></td><td><span class='badge badge-gray'>No</span></td><td class='num'>70</td><td class='num'>80</td><td>2026-07-17</td><td class='proof'><a class="proof-online" href="proof/job1425.png" target="_blank" rel="noopener">View proof (online)</a><br><small class="muted">PNG committed online; PDF + audit local</small><br><small class="muted">captured 2026-08-31 07:59</small></td><td class='num'><span class="na" title="no visible form fields in capture">N/A</span></td><td class='num'><span class="na" title="no field maps to a known profile attribute">N/A</span></td><td class='num'><span class="na" title="no free-form written answer captured/assessed">N/A</span></td><td class='num'>80</td></tr>
 <tr><td class='company'>Sugarcrm</td><td>SugarAI - Product Manager</td><td>2026-07-16</td><td class='src'>Tavily search</td><td class='num'>52</td><td><span class='badge badge-red'>closed</span></td><td><span class='badge badge-gray'>No</span></td><td class='num'>60</td><td class='num'>80</td><td>2026-07-16</td><td class='proof'><span class="na">—</span></td><td class='num'><span class="na" title="no data">N/A</span></td><td class='num'><span class="na" title="no data">N/A</span></td><td class='num'><span class="na" title="no data">N/A</span></td><td class='num'>80</td></tr>
@@ -162,18 +162,18 @@ a:hover{text-decoration:underline}
 <tr><td class='company'>RevenueCat</td><td>Senior Product Manager, Analytics &amp; Experiments</td><td>—</td><td class='src'>Recovered (rebuild)</td><td class='num'><span class="na" title="Unknown / indeterminate discovery source (e.g. recovered job) - no score fabricated">-</span></td><td><span class='badge badge-red'>rejected</span></td><td><span class='badge badge-gray'>No</span></td><td class='num'>58</td><td class='num'>70</td><td>2026-06-29</td><td class='proof'><span class="na">—</span></td><td class='num'><span class="na" title="no data">N/A</span></td><td class='num'><span class="na" title="no data">N/A</span></td><td class='num'><span class="na" title="no data">N/A</span></td><td class='num'>70</td></tr></tbody>
     </table></div>
   </section>
-  <section class="card"><h2>Recent activity</h2><div class='act-row'><span class='badge badge-gray'>form_capture</span> <strong>Cleo</strong> <span class='muted'>Product Manager</span> — captured <span class='muted pull'>2026-09-01 17:10</span></div>
+  <section class="card"><h2>Recent activity</h2><div class='act-row'><span class='badge badge-gray'>form_capture</span> <strong>Netomi</strong> <span class='muted'>Netomi - Lead / Senior Product Manager Analytics</span> — captured <span class='muted pull'>2026-09-01 17:45</span></div>
+<div class='act-row'><span class='badge badge-gray'>application_complete</span> <strong>Netomi</strong> <span class='muted'>Netomi - Lead / Senior Product Manager Analytics</span> — awaiting_submit <span class='muted pull'>2026-09-01 17:44</span></div>
+<div class='act-row'><span class='badge badge-gray'>practice_fill</span> <strong>Maven Clinic</strong> <span class='muted'>VP of Product, Healthcare</span> — captured <span class='muted pull'>2026-09-01 17:39</span></div>
+<div class='act-row'><span class='badge badge-gray'>prefill_launch</span> <strong>Netomi</strong> <span class='muted'>Netomi - Lead / Senior Product Manager Analytics</span> — ok <span class='muted pull'>2026-09-01 17:38</span></div>
+<div class='act-row'><span class='badge badge-gray'>application_attempt</span> <strong>Netomi</strong> <span class='muted'>Netomi - Lead / Senior Product Manager Analytics</span> — in_progress <span class='muted pull'>2026-09-01 17:38</span></div>
+<div class='act-row'><span class='badge badge-gray'>application_complete</span> <strong>Maven Clinic</strong> <span class='muted'>VP of Product, Healthcare</span> — awaiting_submit <span class='muted pull'>2026-09-01 17:36</span></div>
+<div class='act-row'><span class='badge badge-gray'>tick_summary</span> <strong>#1</strong> <span class='muted'></span> — ok <span class='muted pull'>2026-09-01 17:31</span></div>
+<div class='act-row'><span class='badge badge-gray'>practice_fill</span> <strong>Maven Clinic</strong> <span class='muted'>VP of Product, Healthcare</span> — in_progress <span class='muted pull'>2026-09-01 17:30</span></div>
+<div class='act-row'><span class='badge badge-gray'>application_attempt</span> <strong>Maven Clinic</strong> <span class='muted'>VP of Product, Healthcare</span> — in_progress <span class='muted pull'>2026-09-01 17:30</span></div>
+<div class='act-row'><span class='badge badge-gray'>form_capture</span> <strong>Cleo</strong> <span class='muted'>Product Manager</span> — captured <span class='muted pull'>2026-09-01 17:10</span></div>
 <div class='act-row'><span class='badge badge-gray'>application_complete</span> <strong>Cleo</strong> <span class='muted'>Product Manager</span> — partial <span class='muted pull'>2026-09-01 17:10</span></div>
-<div class='act-row'><span class='badge badge-gray'>tick_summary</span> <strong>#1</strong> <span class='muted'></span> — ok <span class='muted pull'>2026-09-01 17:01</span></div>
-<div class='act-row'><span class='badge badge-gray'>prefill_launch</span> <strong>Cleo</strong> <span class='muted'>Product Manager</span> — ok <span class='muted pull'>2026-09-01 17:01</span></div>
-<div class='act-row'><span class='badge badge-gray'>application_attempt</span> <strong>Cleo</strong> <span class='muted'>Product Manager</span> — in_progress <span class='muted pull'>2026-09-01 17:01</span></div>
-<div class='act-row'><span class='badge badge-gray'>practice_fill</span> <strong>Sekai</strong> <span class='muted'>AI Product Manager (Remote)</span> — captured <span class='muted pull'>2026-09-01 17:00</span></div>
-<div class='act-row'><span class='badge badge-gray'>application_complete</span> <strong>Sekai</strong> <span class='muted'>AI Product Manager (Remote)</span> — partial <span class='muted pull'>2026-09-01 17:00</span></div>
-<div class='act-row'><span class='badge badge-gray'>practice_fill</span> <strong>Sekai</strong> <span class='muted'>AI Product Manager (Remote)</span> — in_progress <span class='muted pull'>2026-09-01 16:50</span></div>
-<div class='act-row'><span class='badge badge-gray'>application_attempt</span> <strong>Sekai</strong> <span class='muted'>AI Product Manager (Remote)</span> — in_progress <span class='muted pull'>2026-09-01 16:50</span></div>
-<div class='act-row'><span class='badge badge-gray'>tick_summary</span> <strong>Aledade</strong> <span class='muted'>Associate Technical Product Manager, Analytics</span> — ok <span class='muted pull'>2026-09-01 16:31</span></div>
-<div class='act-row'><span class='badge badge-gray'>tick_summary</span> <strong>#1</strong> <span class='muted'></span> — ok <span class='muted pull'>2026-09-01 16:31</span></div>
-<div class='act-row'><span class='badge badge-gray'>practice_fill</span> <strong>Hophr</strong> <span class='muted'>Hop - Senior Product Manager, Pharma Analytics Products</span> — captured <span class='muted pull'>2026-09-01 16:17</span></div></section>
+<div class='act-row'><span class='badge badge-gray'>tick_summary</span> <strong>#1</strong> <span class='muted'></span> — ok <span class='muted pull'>2026-09-01 17:01</span></div></section>
   <p class="pager">Built by scripts/build_public_dashboard.py · proof captures are local files; only small PNGs are copied to the repo for online viewing.</p>
 </div>
 </div>
